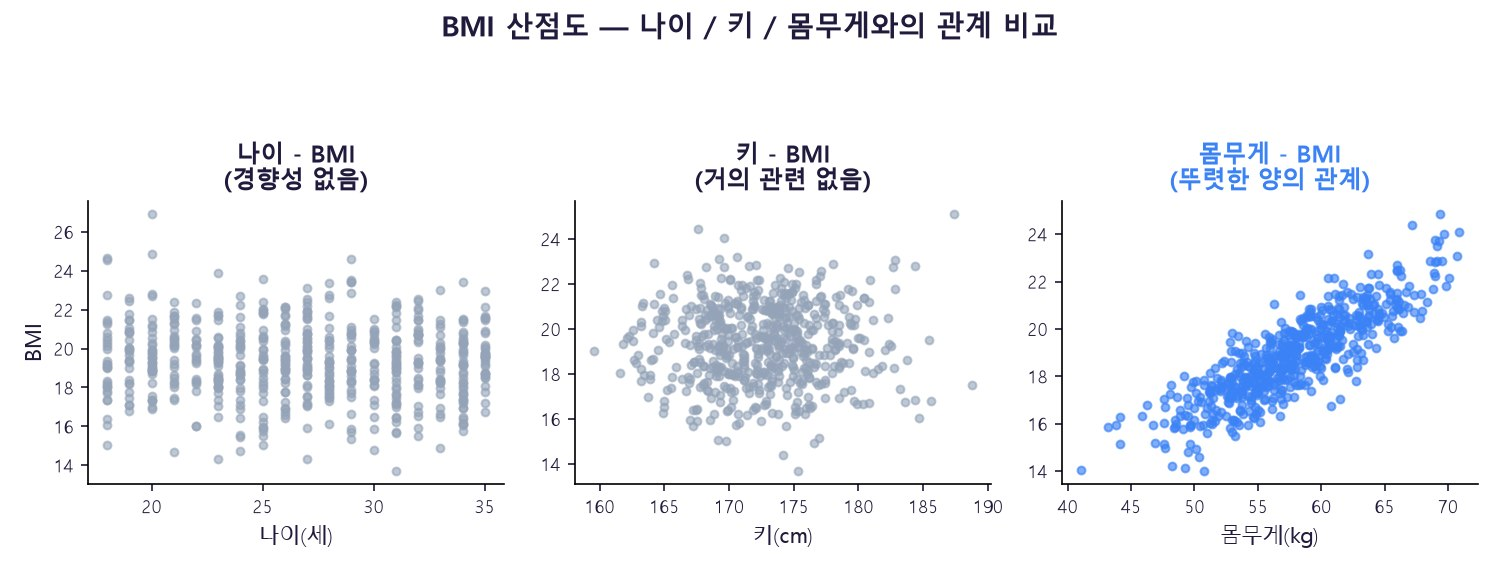
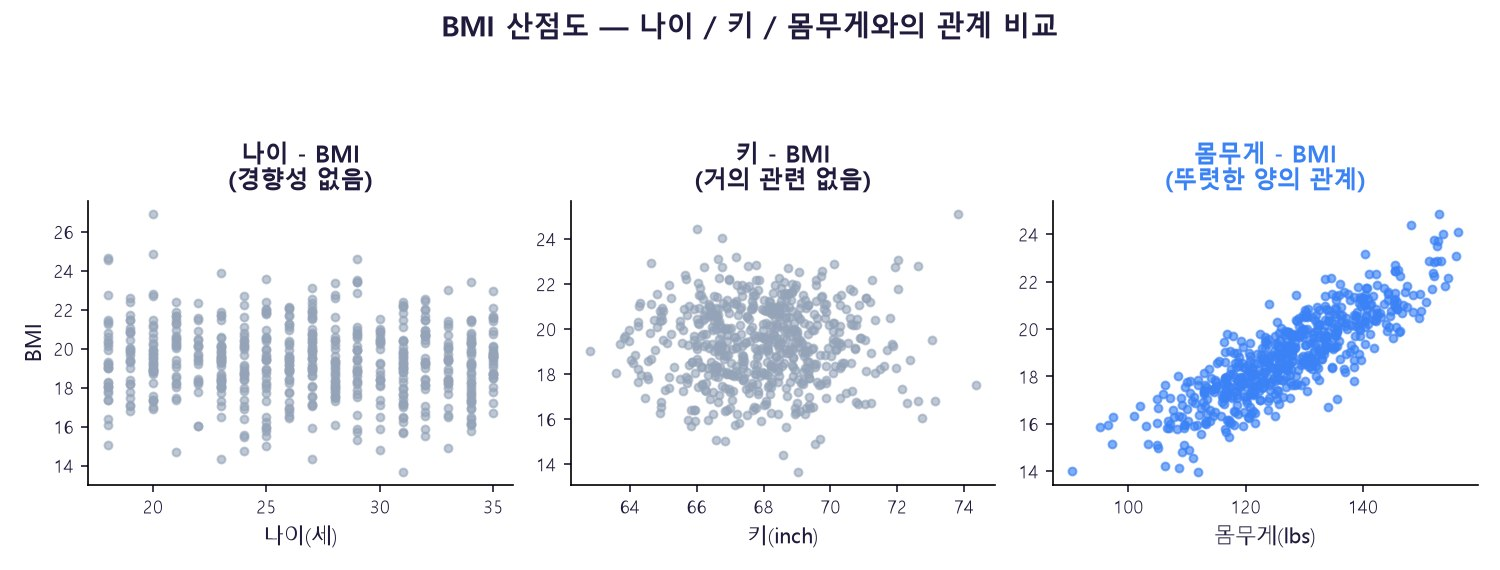
Fix: BMI 챕터 데이터셋 칼럼 단위를 실제 배포 데이터와 동일한 Inches/Pounds로 변경
사용자가 실제 bmi_data.csv(Height(Inches)/Weight(Pounds))로 테스트한
결과와 비교해보니, junior_05_02 문항에 이미 "원래 인치/파운드 데이터를
cm/kg으로 변환해 사용한다"는 주석이 있었음 — 의도적 변환이었지만,
실습용으로 배포되는 원본 CSV와 퀴즈 정답이 어긋나는 혼란을 유발.

사용자 요청대로 데이터셋 칼럼 관련 설명을 모두 원본 단위(Inches/
Pounds)로 전환:
- junior_05_02: 단위 변환 주석 수정, 범주형 예시 값(70kg→154lbs)
- junior_05_03: 키/몸무게 기초통계(153~191cm→60.28~75.15in,
  35~78kg→78.01~170.92lbs), Q5-4 칼럼명/정답(35.39→78.01), Q5-5
  칼럼명(Height(cm)→Height(Inches)), 산점도/빈칸채우기 이미지 재생성
- junior_05_04: 의사결정트리 예시(60kg→130lbs)

개인 BMI 계산기(junior_05_01)와 보편적 BMI 공식 설명은 데이터셋과
무관해 cm/kg을 그대로 유지. non-destructive 커맨드, 재실행해도 중복 없음.

diff --git a/medulab_arcade/courses/management/commands/convert_aice_junior_bmi_units.py b/medulab_arcade/courses/management/commands/convert_aice_junior_bmi_units.py
@@ -1,0 +1,107 @@
+# -*- coding: utf-8 -*-
+from django.core.management.base import BaseCommand, CommandError
+
+from courses.models import Item
+
+
+class Command(BaseCommand):
+    help = (
+        "AICE Junior 'BMI 예측하기' 챕터의 데이터셋 칼럼 단위를 cm/kg에서 "
+        "실제 배포되는 원본 데이터 단위인 Height(Inches)/Weight(Pounds)로 맞춥니다. "
+        "(개인 BMI 계산기 등 일반 교육용 설명은 cm/kg을 그대로 유지합니다.)"
+    )
+
+    def handle(self, *args, **options):
+        total_changed = 0
+        total_skipped = 0
+
+        # ---------- junior_05_02: 데이터 수집 ----------
+        item = self._get(args, "junior_05_02")
+        html = item.explain_html
+        pairs = [
+            (
+                "※ 원래 데이터는 키가 인치, 몸무게가 파운드 단위인데, 우리가 쓰기 편하게 cm와 kg으로 바꿔서 사용해요.",
+                "※ 이 데이터셋은 원래 단위인 키(인치)와 몸무게(파운드)를 그대로 사용해요.",
+            ),
+            (">몸무게 (70kg)</button>", ">몸무게 (154lbs)</button>"),
+        ]
+        changed, skipped = self._apply(html, pairs, item)
+        total_changed += changed
+        total_skipped += skipped
+
+        # ---------- junior_05_03: 데이터 분석 및 가공 ----------
+        item = self._get(args, "junior_05_03")
+        html = item.explain_html
+        pairs = [
+            (
+                "<strong>153cm ~ 191cm</strong> 사이이고, 평균(약 172cm) 근처 사람이 가장 많은 종 모양 분포예요. "
+                "빈칸(결측값)이 <strong>19개</strong> 있어요.",
+                "<strong>60.28in ~ 75.15in</strong> 사이이고, 평균(약 68.0in) 근처 사람이 가장 많은 종 모양 분포예요. "
+                "빈칸(결측값)이 <strong>19개</strong> 있어요.",
+            ),
+            (
+                "<strong>35kg ~ 78kg</strong> 사이이고, 빈칸이 <strong>16개</strong> 있어요.",
+                "<strong>78.01lbs ~ 170.92lbs</strong> 사이이고, 빈칸이 <strong>16개</strong> 있어요.",
+            ),
+            (
+                "Q5-4. '몸무게[Weight(kg)]' 칼럼에서 최솟값은 얼마인가요?",
+                "Q5-4. '몸무게[Weight(Pounds)]' 칼럼에서 최솟값은 얼마인가요?",
+            ),
+            (
+                'placeholder="숫자만 입력 (예: 35.39)"',
+                'placeholder="숫자만 입력 (예: 78.01)"',
+            ),
+            (
+                "checkJ0503Blank('j0504Answer','j0504Result',35.39,'junior_05_03')",
+                "checkJ0503Blank('j0504Answer','j0504Result',78.01,'junior_05_03')",
+            ),
+            (
+                "Q5-5. '키[Height(cm)]' 칼럼의 결측값은 몇 개인가요?",
+                "Q5-5. '키[Height(Inches)]' 칼럼의 결측값은 몇 개인가요?",
+            ),
+        ]
+        changed, skipped = self._apply(html, pairs, item)
+        total_changed += changed
+        total_skipped += skipped
+
+        # ---------- junior_05_04: AI 모델 학습 ----------
+        item = self._get(args, "junior_05_04")
+        html = item.explain_html
+        pairs = [
+            (
+                '"성별이 남자야? 몸무게가 60kg 이상이야?"처럼 <strong>스무고개 질문</strong>으로 그룹을 나누고, '
+                "마지막 그룹의 평균으로 예측해요.",
+                '"성별이 남자야? 몸무게가 130lbs 이상이야?"처럼 <strong>스무고개 질문</strong>으로 그룹을 나누고, '
+                "마지막 그룹의 평균으로 예측해요.",
+            ),
+        ]
+        changed, skipped = self._apply(html, pairs, item)
+        total_changed += changed
+        total_skipped += skipped
+
+        self.stdout.write(self.style.SUCCESS(
+            f"총 {total_changed}곳을 Inches/Pounds 단위로 변환했습니다. ({total_skipped}곳은 이미 적용되어 건너뜀)"
+        ))
+
+    def _get(self, args, key):
+        try:
+            return Item.objects.get(key=key)
+        except Item.DoesNotExist:
+            raise CommandError(f"key='{key}' 문항을 찾을 수 없습니다.")
+
+    def _apply(self, html, pairs, item):
+        changed = 0
+        skipped = 0
+        for old, new in pairs:
+            if new in html:
+                skipped += 1
+                continue
+            if old not in html:
+                raise CommandError(
+                    f"[{item.key}] '{old[:40]}...' 블록을 찾지 못했습니다. 문항 내용이 변경되었을 수 있습니다."
+                )
+            html = html.replace(old, new, 1)
+            changed += 1
+        item.explain_html = html
+        item.save(update_fields=["explain_html"])
+        return changed, skipped
